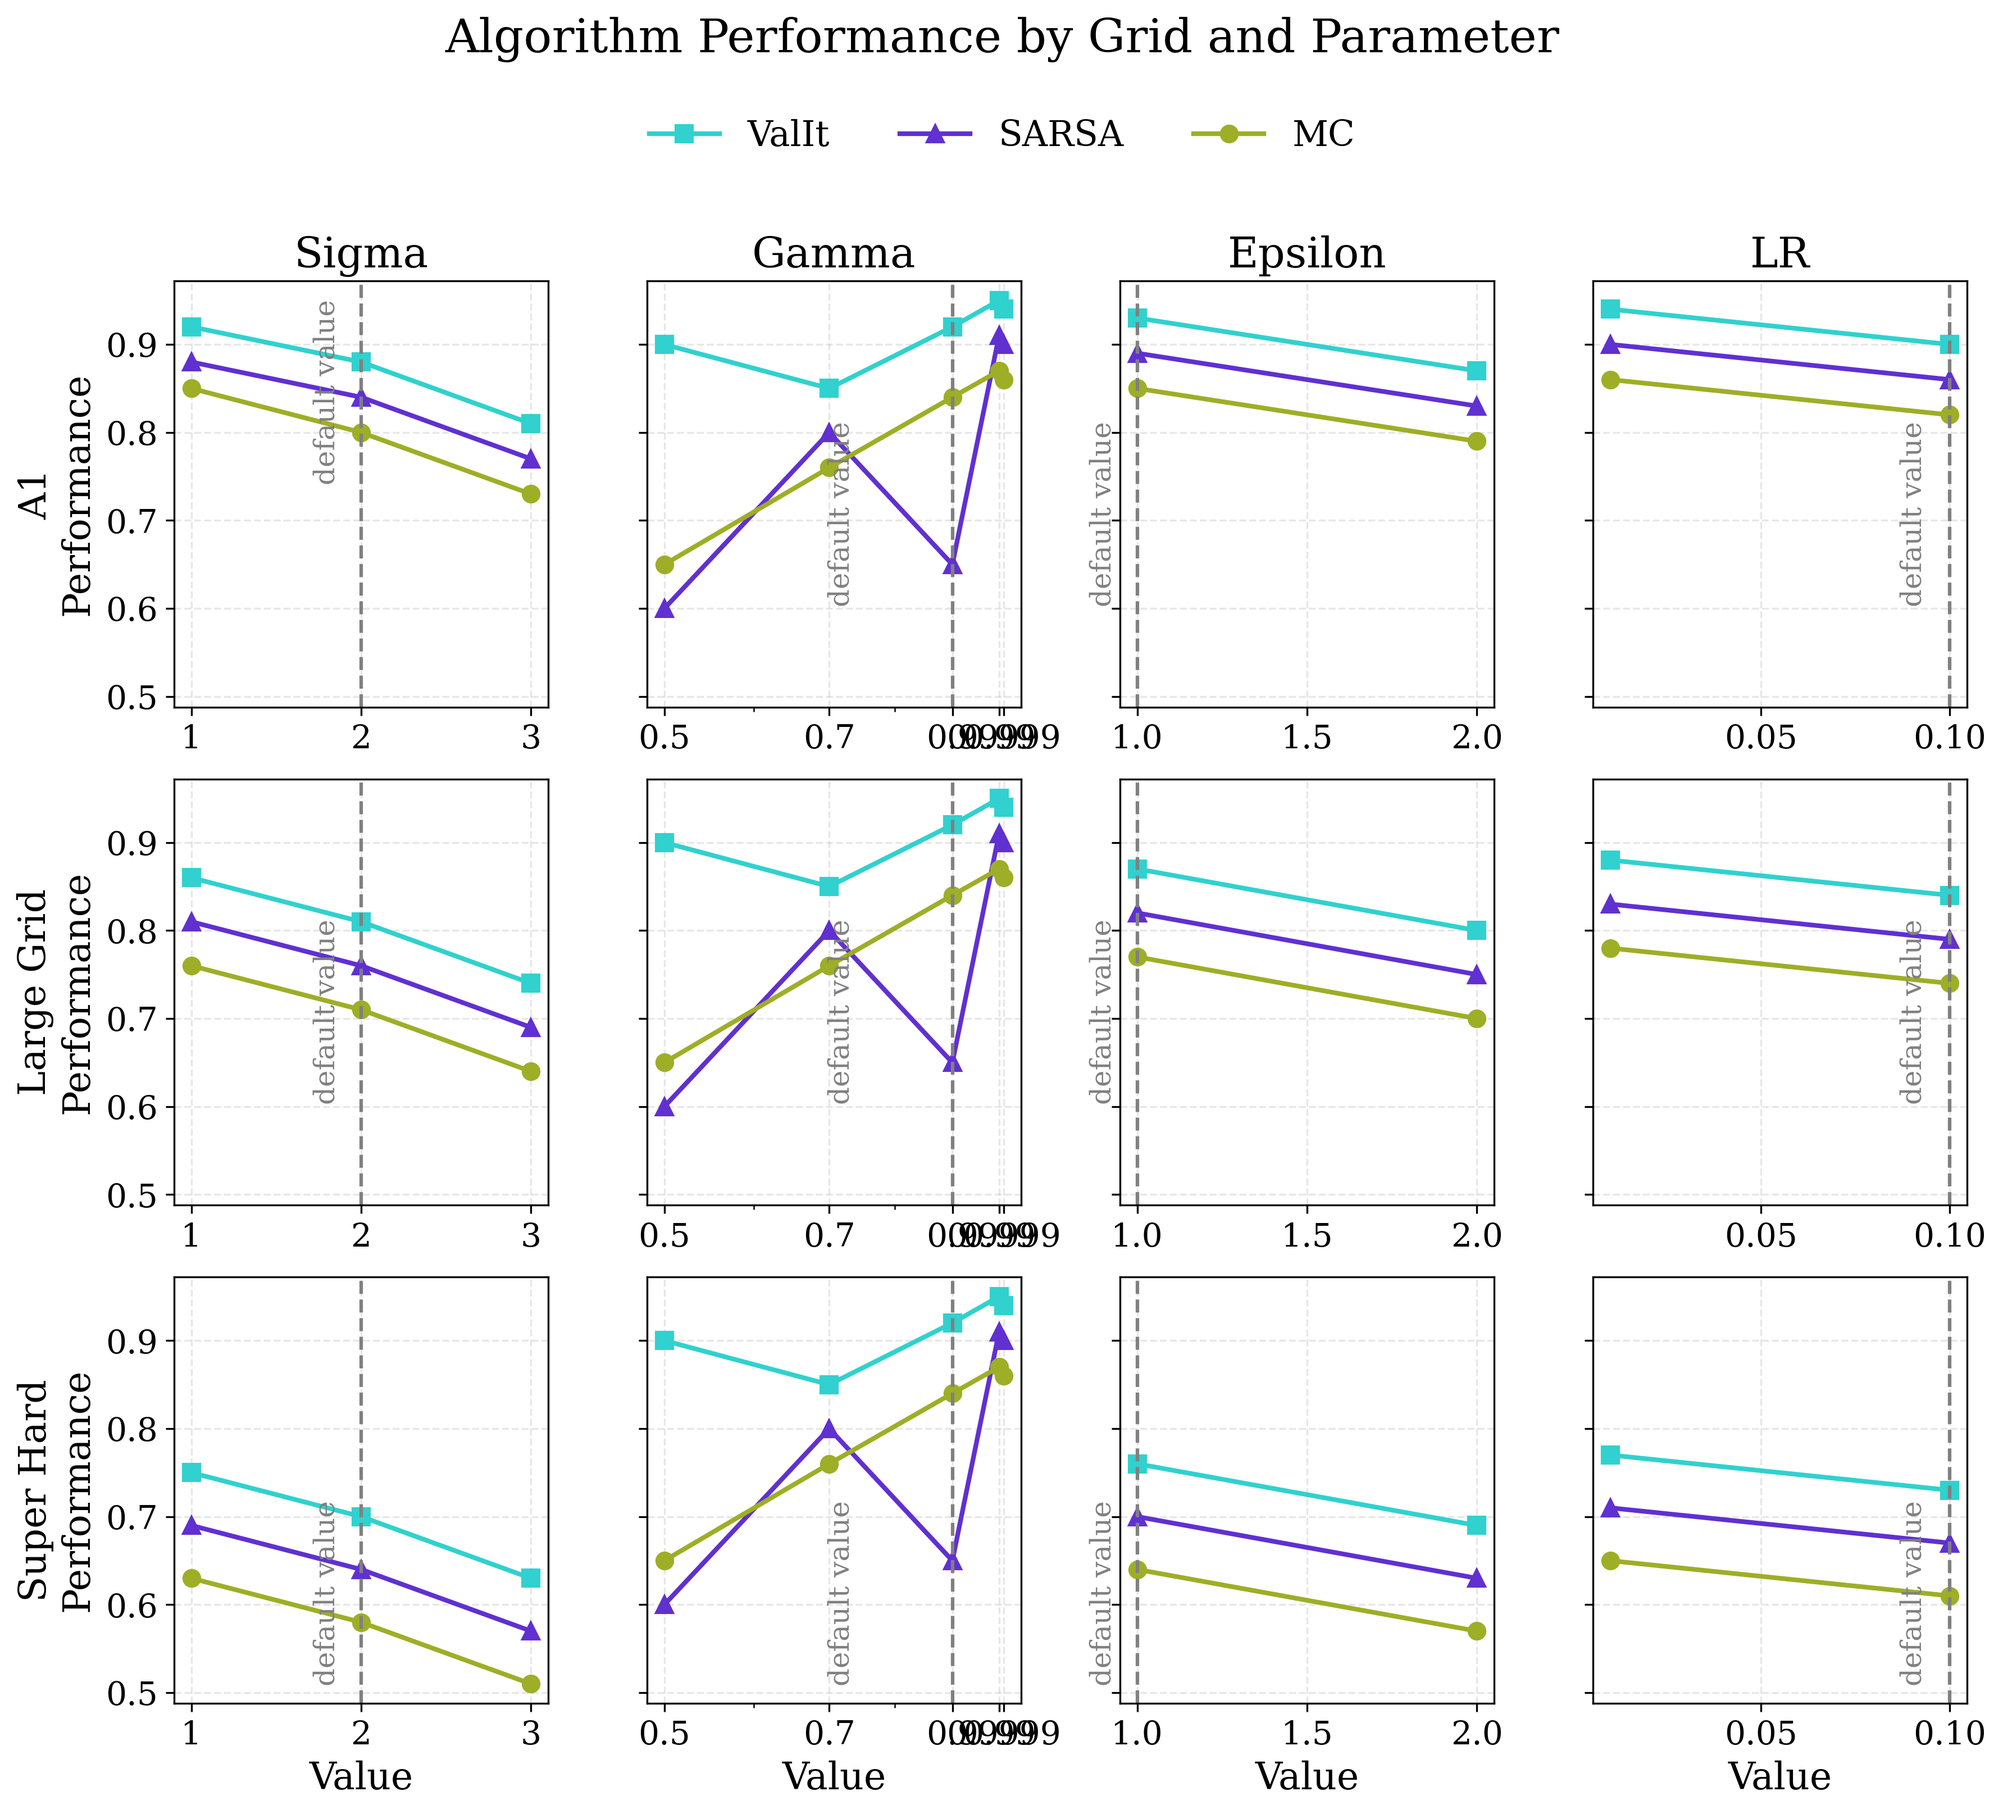
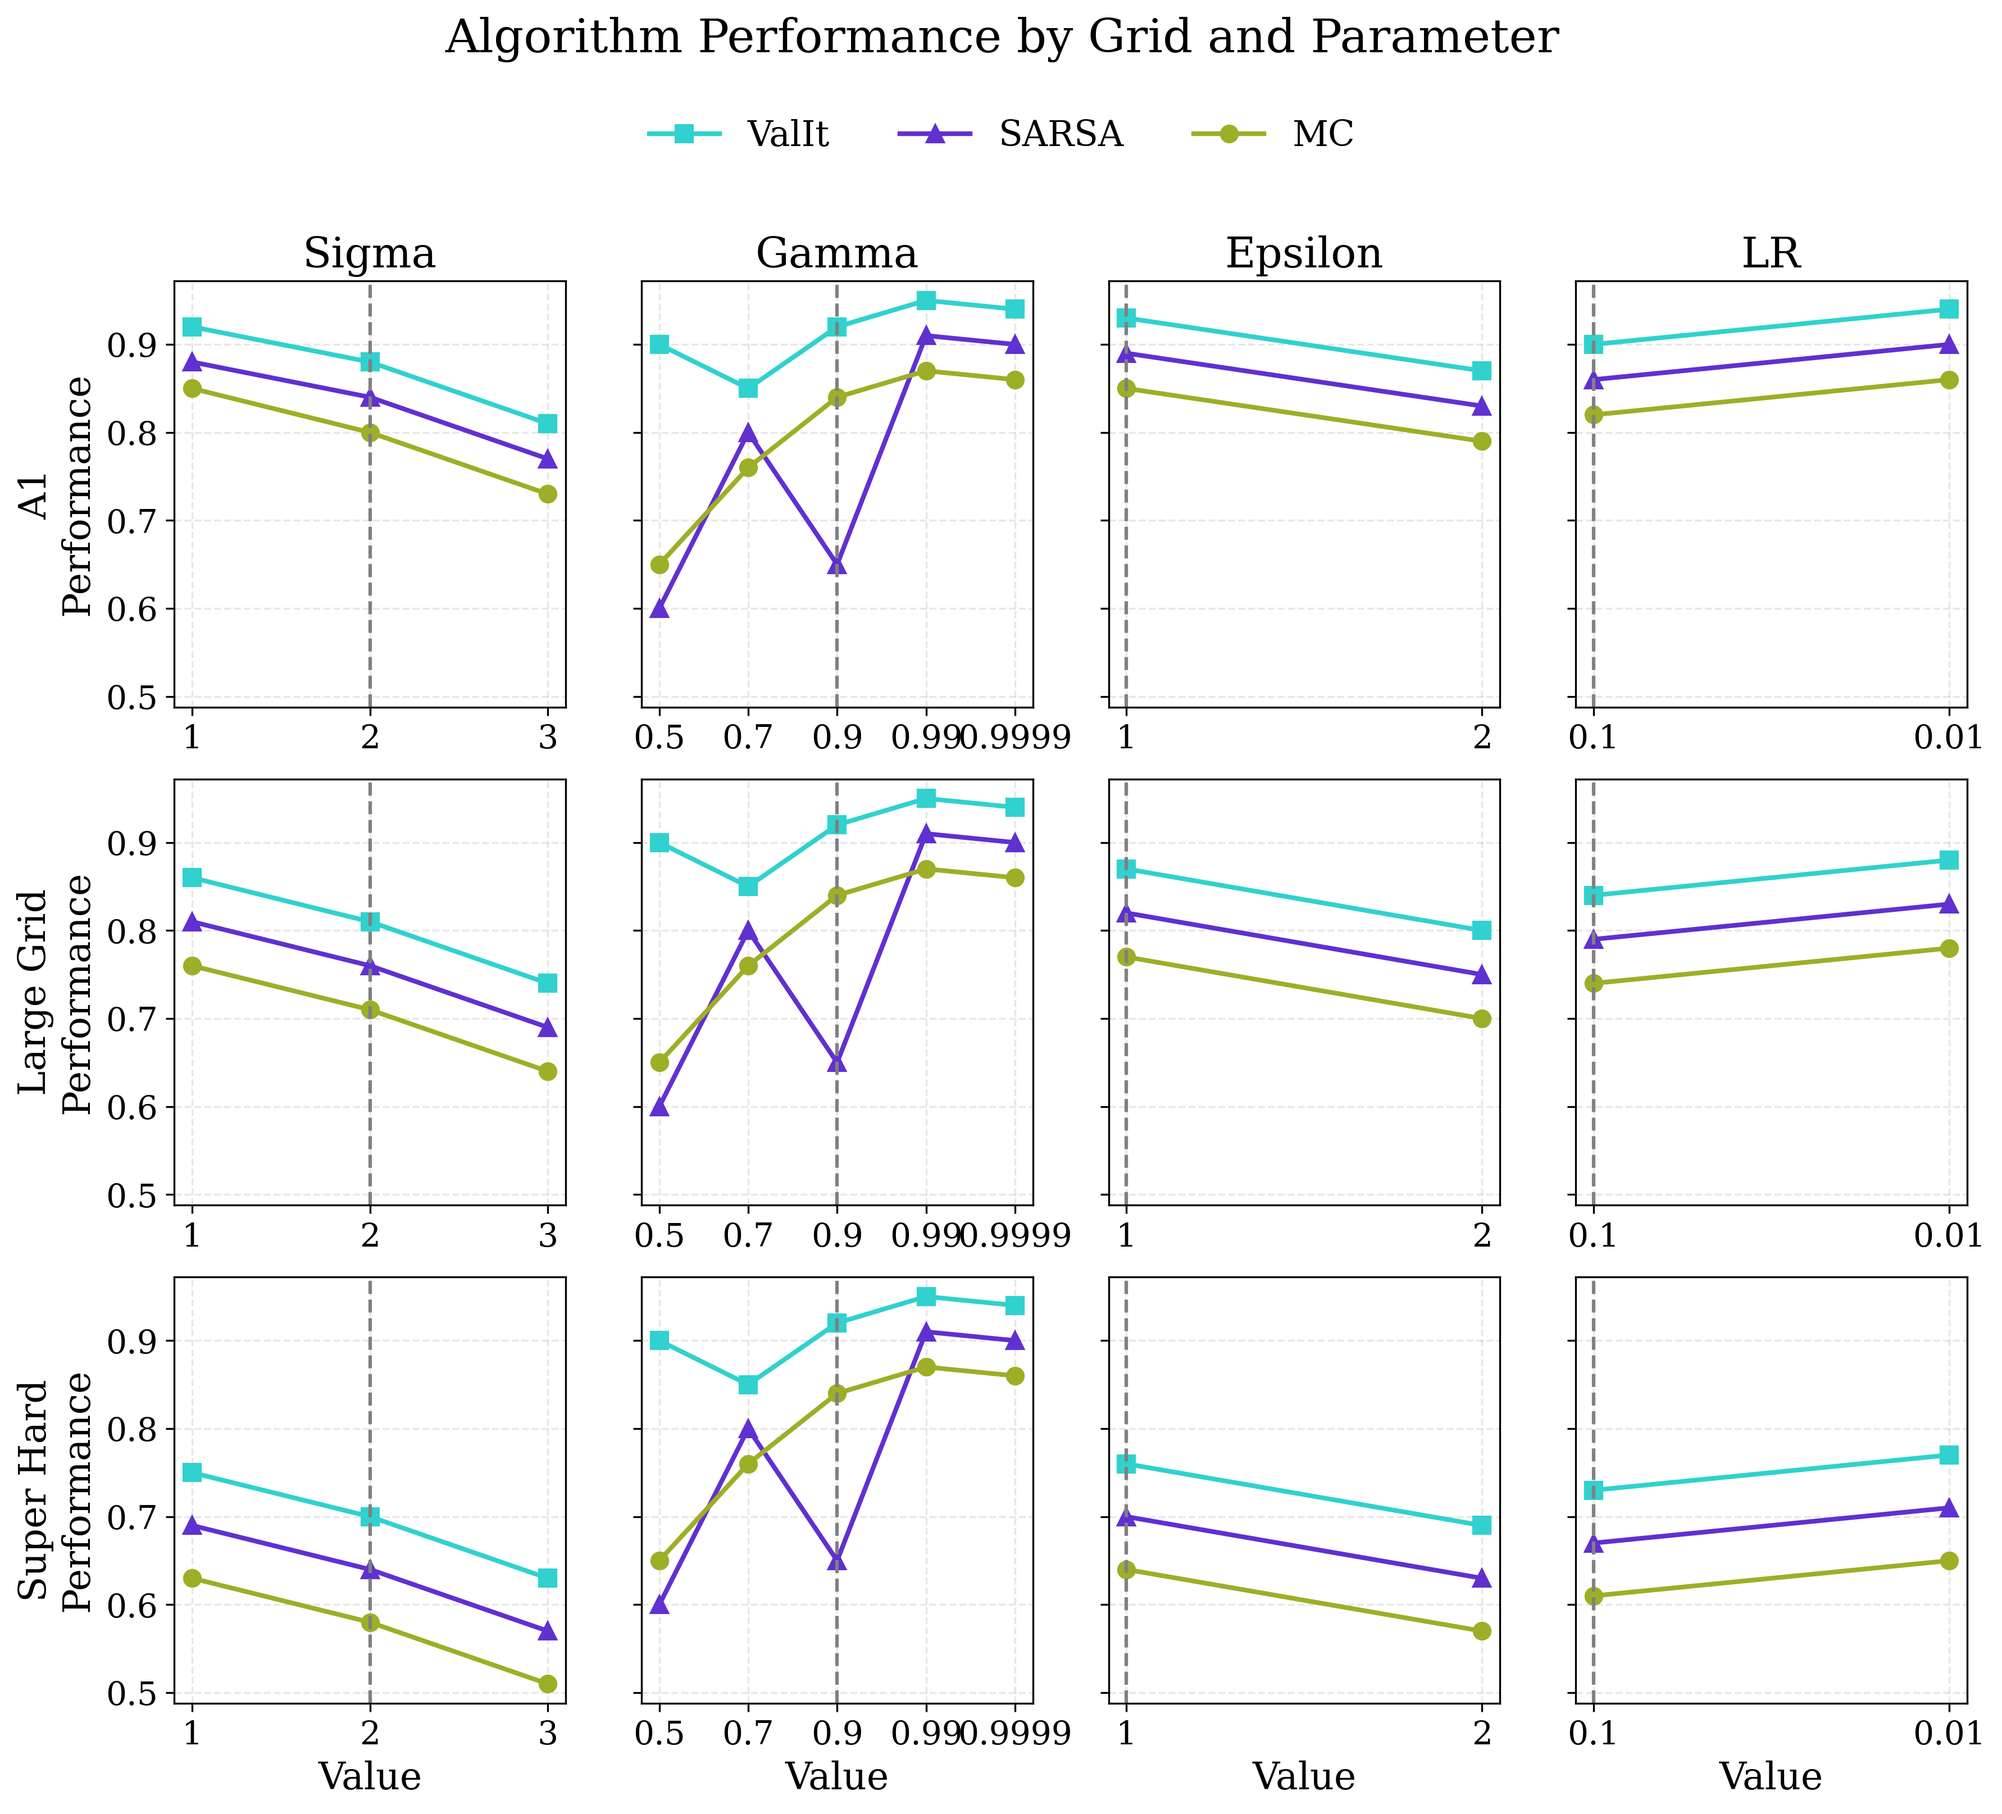
Changing RLResults

diff --git a/scripts/RLResults.py b/scripts/RLResults.py
@@ -80,13 +80,6 @@ default_values = {
     "LR": 0.1,
 }
 
-offsets = {
-    "Sigma": 0.12,
-    "Gamma": 0.18,
-    "Epsilon": 0.06,
-    "LR": 0.006,
-}
-
 colors = {
     "ValIt": "#30D1CE",
     "SARSA": "#6030D1",
@@ -99,69 +92,51 @@ markers = {
     "MC": "o",
 }
 
-log_scale_categories = {"Gamma"} # list of variables to plot with logs
 
 categories = ["Sigma", "Gamma", "Epsilon", "LR"]
 grids = ["A1", "Large Grid", "Super Hard"]
- 
+
 n_rows = len(grids)
 n_cols = len(categories)
- 
+
 fig, axes = plt.subplots(n_rows, n_cols, figsize=(3 * n_cols, 3.5 * n_rows), sharey=True)
- 
+
 for row, grid in enumerate(grids):
     for col, category in enumerate(categories):
         ax = axes[row, col]
- 
+
         for algo in ["ValIt", "SARSA", "MC"]:
             param_dict = data[grid][algo][category]
-            x = [float(k) for k in param_dict.keys()]
+            x = list(param_dict.keys())  # Use keys as categorical labels
             y = list(param_dict.values())
- 
-            ax.plot(x, y, marker=markers[algo], linestyle='-',
+
+            ax.plot(range(len(x)), y, marker=markers[algo], linestyle='-',
                     color=colors[algo], linewidth=2, markersize=7, label=algo)
- 
+
+        # Set x-axis ticks to show all categorical labels
+        ax.set_xticks(range(len(x)))
+        ax.set_xticklabels(x, fontsize=12)
+
         ax.grid(True, linestyle='--', alpha=0.3)
         ax.tick_params(axis='x', labelsize=14)
         ax.tick_params(axis='y', labelsize=14)
- 
-        # Apply log scale with readable tick labels
-        if category in log_scale_categories:
-            ax.set_xscale('log')
-            # Collect all unique x values for this category across algorithms
-            tick_vals = sorted(set(
-                float(k)
-                for algo in ["ValIt", "SARSA", "MC"]
-                for k in data[grid][algo][category].keys()
-            ))
-            ax.set_xticks(tick_vals)
-            # Format labels: show integers where possible, otherwise decimals
-            ax.set_xticklabels([
-                f'{v:g}' for v in tick_vals
-            ])
-            from matplotlib.ticker import NullFormatter
-            ax.xaxis.set_minor_formatter(NullFormatter())
- 
+
         # Add vertical line for the default value
         if category in default_values:
-            ax.axvline(default_values[category], color='gray', linestyle='--', linewidth=1.5)
-            # For log-scale axes, use multiplicative offset; for linear, additive
-            if category in log_scale_categories:
-                text_x = default_values[category] * (1 - offsets[category])
-            else:
-                text_x = default_values[category] - offsets[category]
-            ax.text(text_x, ax.get_ylim()[0] + 0.02,
-                    'default value', rotation=90, color='gray', fontsize=12,
-                    ha='right', va='bottom')
- 
+            default_x = str(default_values[category])
+            if default_x in x:
+                default_idx = x.index(default_x)
+                ax.axvline(default_idx, color='gray', linestyle='--', linewidth=1.5)
+                # ax.text(default_idx - 0.5, ax.get_ylim()[0] + 0.02, 'default value', rotation=90, color='gray', fontsize=12, ha='right', va='bottom')
+
         # Column titles on top row only
         if row == 0:
             ax.set_title(category, fontsize=18, pad=6)
- 
+
         # X-axis labels on bottom row only
         if row == n_rows - 1:
             ax.set_xlabel('Value', fontsize=16)
- 
+
         # Row labels on leftmost column
         if col == 0:
             ax.set_ylabel(f'{grid}\nPerformance', fontsize=16)
